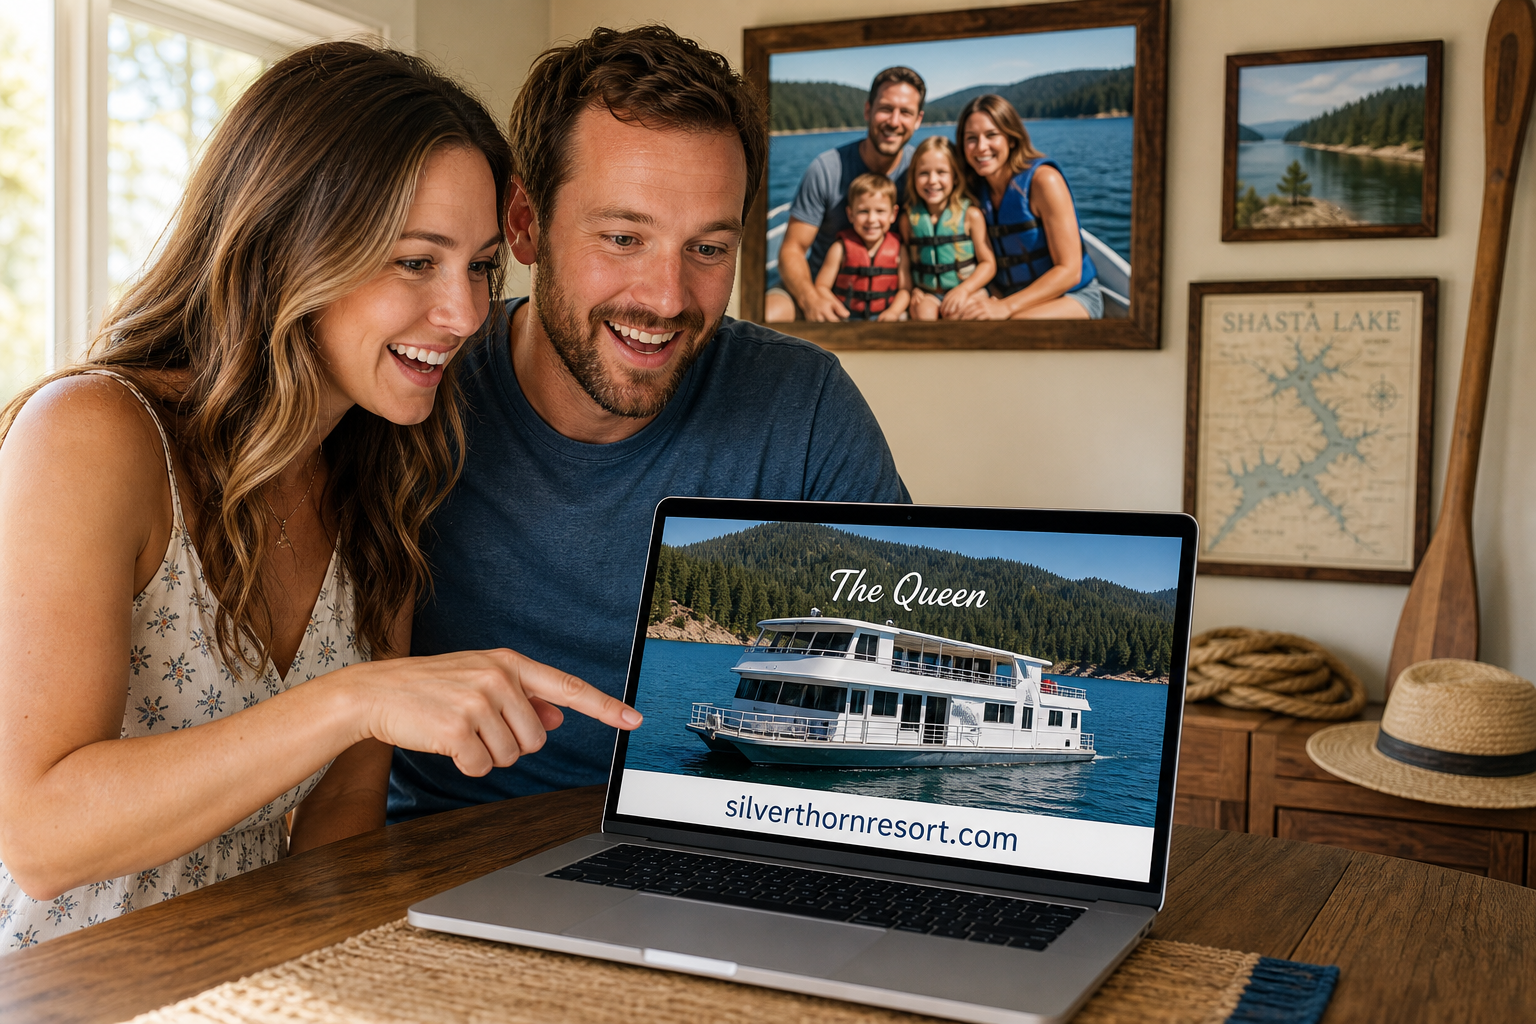
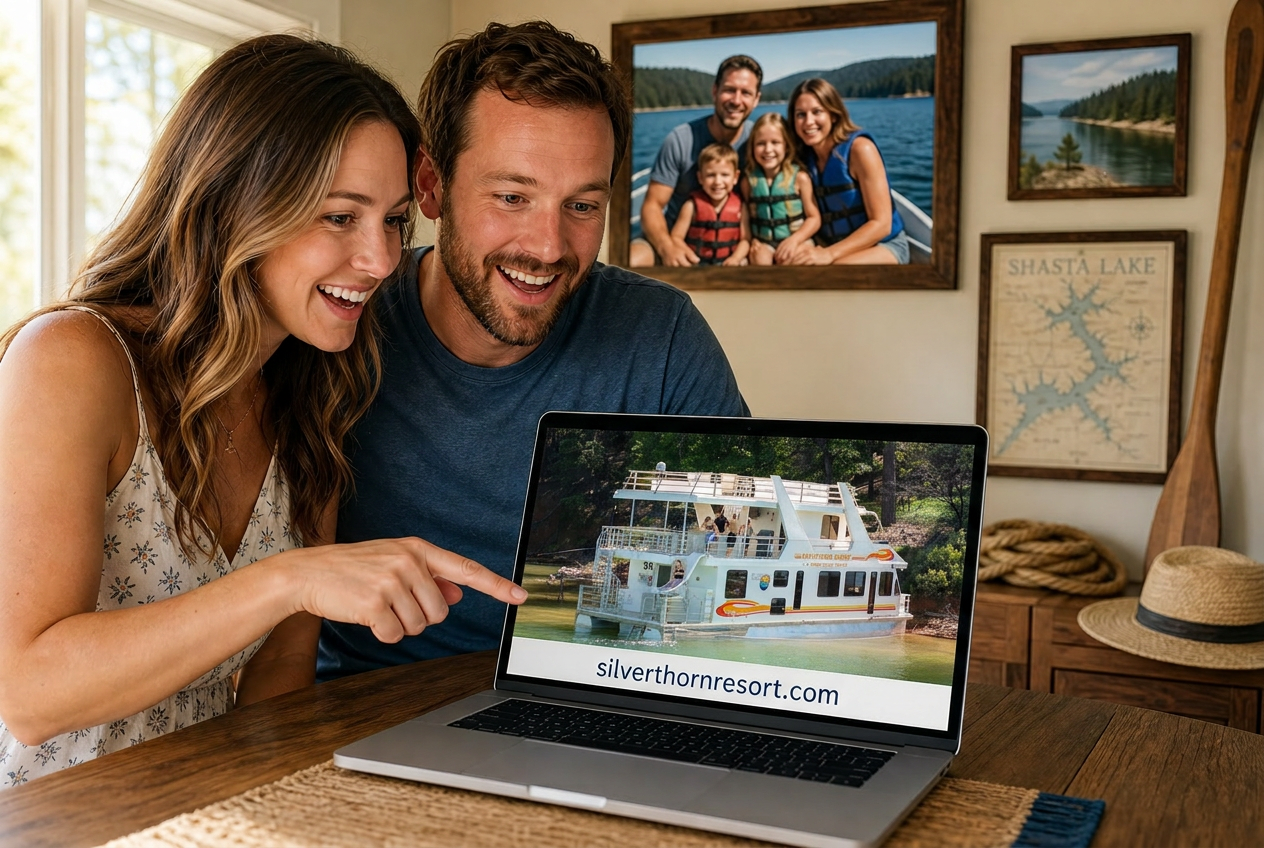
Changes

diff --git a/.lovable/plan.md b/.lovable/plan.md
@@ -1,23 +1,13 @@
-## Generate hero image: couple planning Shasta Lake trip
+## Update hero image: swap laptop screen to actual Queen photo
 
-**New asset**: `src/assets/couple-planning-shasta.webp` (1536×1024, photorealistic, generated via premium image model so the laptop screen text "silverthornresort.com" renders legibly).
+Use `imagegen--edit_image` to merge two existing images:
+- `src/assets/couple-planning-shasta.webp` (the current hero scene)
+- `src/assets/fleet-queen.webp` (the real Queen houseboat hero photo used on `/houseboats/queen`)
 
-### Prompt direction
-- Photorealistic, vivid colors, warm natural light.
-- Caucasian couple in their early 30s sitting together at a home dining table or living room, leaning toward an open laptop, smiling/excited expressions.
-- Laptop screen clearly shows: a hero photo of a large white Silverthorn-style houseboat (the "Queen") on blue water, with the URL text **"silverthornresort.com"** displayed below the photo in clean sans-serif.
-- Background room details evoking Shasta Lake lifestyle:
-  - Framed family photo on the wall of the same couple with two kids on a lake/boat (sunny day, life vests, smiles).
-  - Smaller framed shots of pine-forested shoreline and a Shasta Lake map print.
-  - A wooden paddle leaning in the corner, a coiled rope, a folded sun hat on the table.
-  - Window in the background hinting at warm afternoon light.
-- Shallow depth of field on the couple, laptop screen sharp and readable.
-- 3:2 landscape framing suitable for a hero section.
+**Prompt direction**: Replace the photo currently shown on the laptop screen with the supplied Queen houseboat image, fitted naturally to the laptop display with correct screen perspective/glare. Keep the "silverthornresort.com" URL text below the photo. Keep everything else identical — same couple, same expressions, same framed family lake photo on the wall, same Shasta Lake map, paddle, rope, sun hat, lighting, depth of field, and composition.
 
-### Where it will be used
-- Saved to `src/assets/couple-planning-shasta.webp`.
-- Not wired into any page in this step — purely asset generation. After it's created I'll show it to you, and you can tell me which page/section to place it in (home hero, FAQ header, a new "Plan your trip" section, etc.).
+**Output**: overwrite `src/assets/couple-planning-shasta.webp` (3:2, same dimensions).
 
-### Notes
-- Generated with the premium tier because the image contains legible text (URL on the laptop). Premium is more expensive than fast/standard but needed for readable typography.
-- One iteration is included; if the URL text or family photo isn't right, I'll re-prompt or use image edit to fix specific areas rather than regenerate from scratch.
+**Tier**: default edit model (one call). If the URL text or screen integration looks off after the edit, I'll do one targeted re-edit rather than regenerating from scratch — keeps credit cost low.
+
+No code changes — asset-only update.
